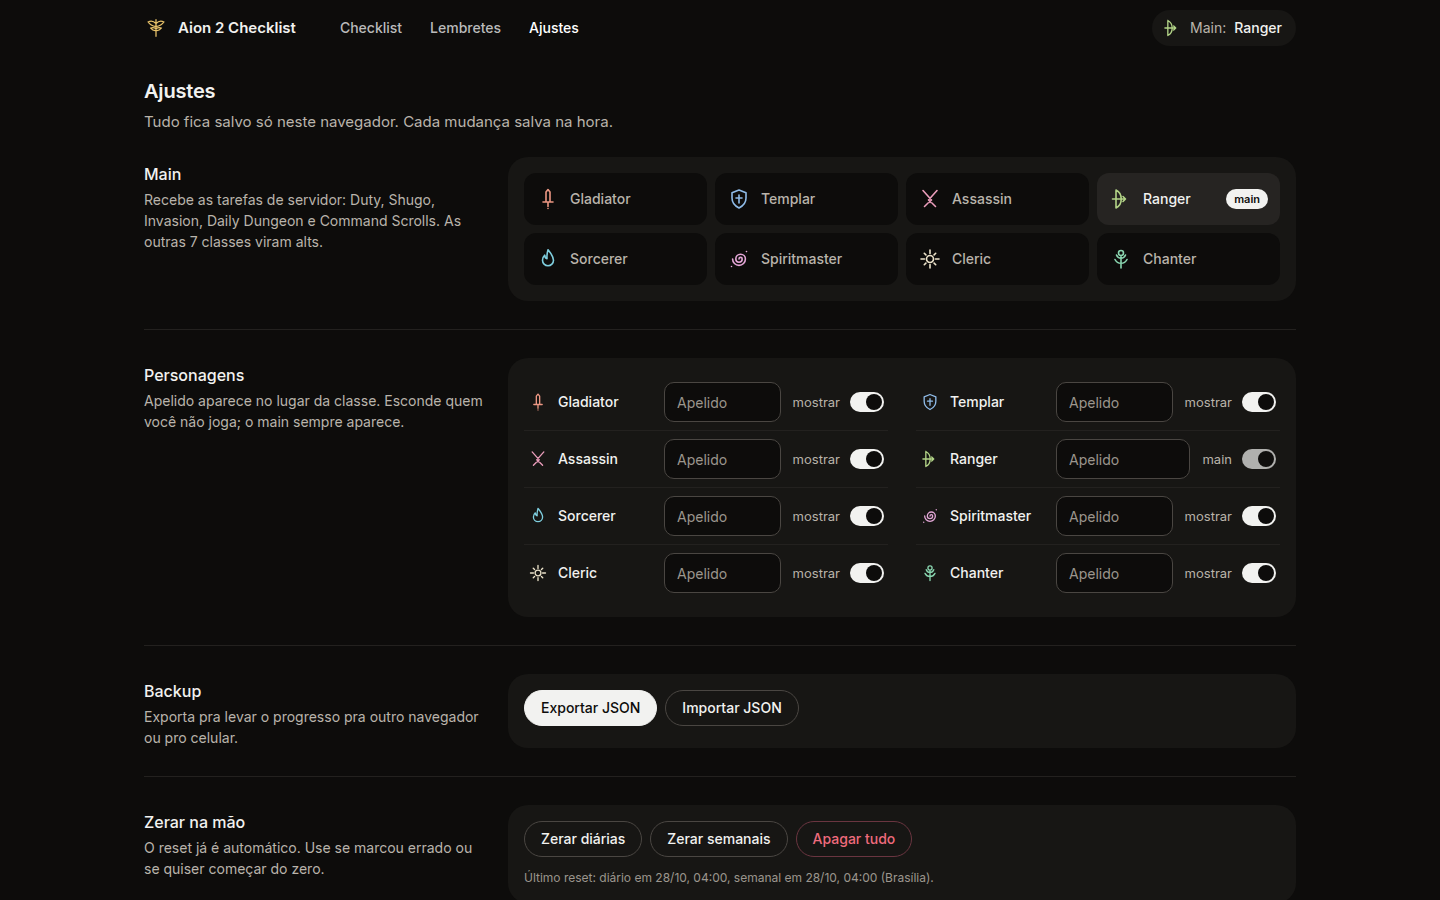
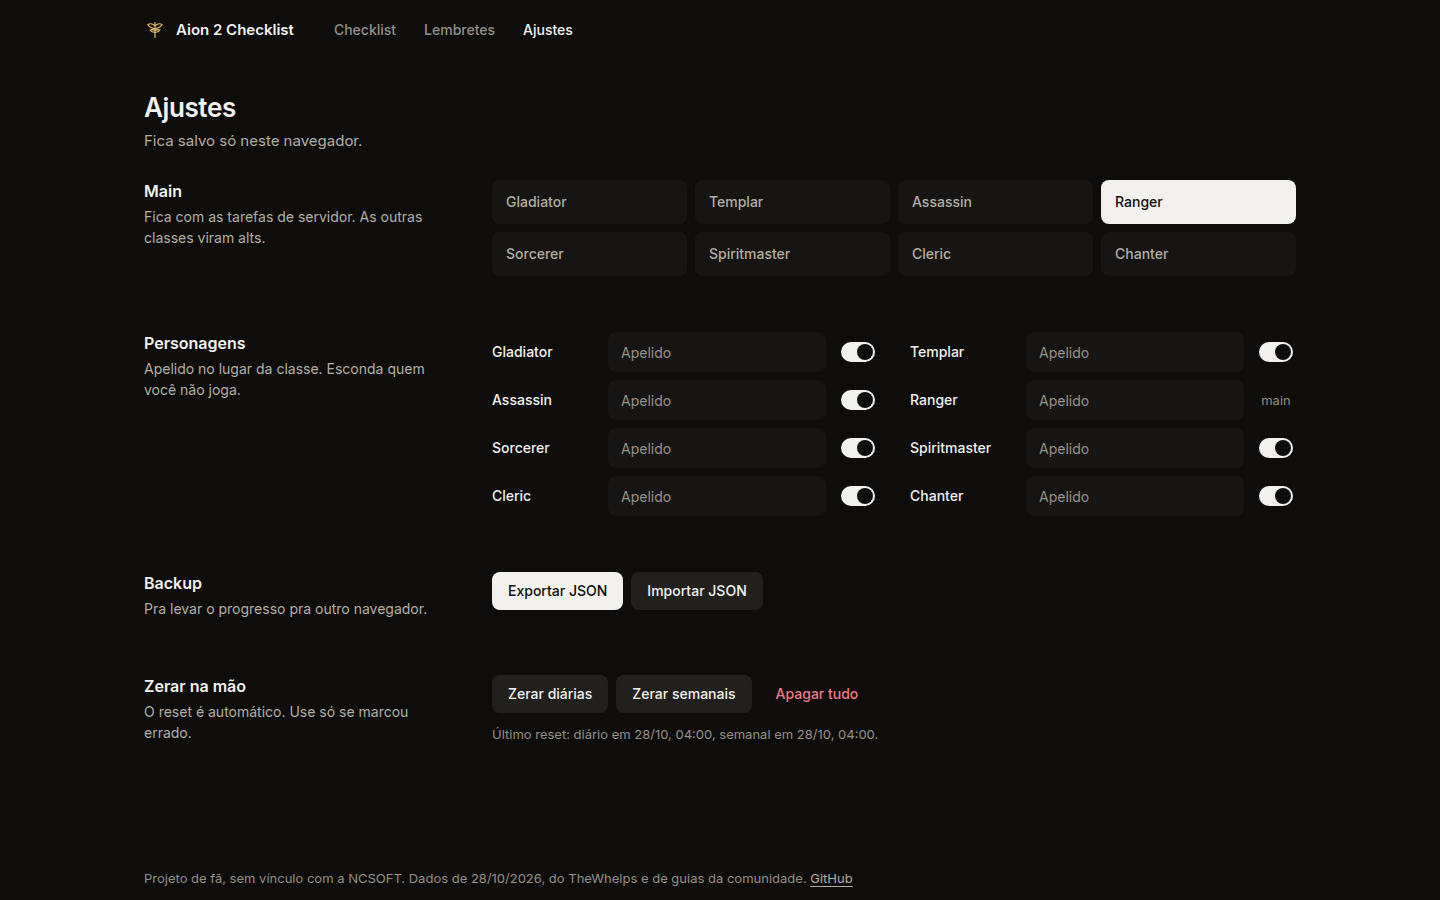
Add CNAME for aion2-checklist.rodrigoos.dev, refresh README and screenshots

diff --git a/README.md b/README.md
@@ -2,7 +2,7 @@
 
 Checklist de diárias e semanais do **Aion 2 global** pra quem joga com main + alts. Você marca o que já fez em cada personagem e a página zera sozinha no reset (04:00 de Brasília).
 
-**Acesse:** https://rodrigoos098.github.io/aion2-checklist/
+**Acesse:** https://aion2-checklist.rodrigoos.dev/
 
 ![Checklist no desktop](screenshots/desktop-1440.png)
 
@@ -12,7 +12,7 @@ Checklist de diárias e semanais do **Aion 2 global** pra quem joga com main + a
 - **8 personagens**, um de cada classe: Gladiator, Templar, Assassin, Ranger, Sorcerer, Spiritmaster, Cleric e Chanter. O main e mais 7 alts.
 - **Checklist por personagem.** O que é por servidor (Duty, chaves de Shugo e Invasion, Daily Dungeon, Command Scrolls) só aparece no main. As alts ficam só com o que é por personagem.
 - **Reset automático com contagem regressiva.** Diário às 04:00 de Brasília (07:00 UTC) e semanal na quarta às 04:00.
-- **Visão geral** de todos os personagens: anel com as diárias e barra com as semanais de cada um, e quanto falta no total.
+- **Visão geral** de todos os personagens: quanto cada um já fez das diárias e quanto falta no total.
 - **Lembretes** do que não tem reset fixo: gastar chave de Shugo, lojas com limite vitalício ou mensal (Shugo, Nightmare, temporada), Hidden Cubes, Kinah das alts pro main e as datas de evento que estão chegando.
 - **Apelidos**, esconder personagem que você não joga, **exportar/importar** o progresso em JSON e **zerar na mão** se precisar.
 - Tudo fica no **localStorage** do navegador. Não tem conta, login nem servidor.
@@ -24,6 +24,10 @@ Checklist de diárias e semanais do **Aion 2 global** pra quem joga com main + a
 </p>
 
 ![Lembretes](screenshots/lembretes-1440.png)
+
+## Domínio
+
+O site é servido pelo GitHub Pages no domínio `aion2-checklist.rodrigoos.dev` (arquivo `CNAME` na raiz). No DNS, o subdomínio precisa de um registro `CNAME` apontando pra `rodrigoos098.github.io`. Todos os caminhos são relativos, então também funciona em `rodrigoos098.github.io/aion2-checklist/`.
 
 ## Rodar local
 
@@ -52,7 +56,7 @@ python3 tools/build_data.py
 - Guias da comunidade: [OnlyFarms](https://onlyfarms.gg/guides/aion-2-daily-weekly-checklist/), [aion2.vi.ki](https://aion2.vi.ki/endgame-routine), [Grimvane](https://aion2.grimvane.app/abyss-boss-timers/), [odyle.net](https://odyle.net/en/cuaderno/tienda-shugo-festival/), [Wikily](https://wikily.gg/aion-2/shops/festival-shop) e [TheGamesWiki](https://thegameswiki.com/aion-2/wiki/global-material-farming-planner).
 - A pesquisa completa está em `pesquisa/checklist.md`.
 
-Os números podem mudar entre fontes e entre o KR e o global. Quando as fontes não batem, o item aparece com a tag **varia** e a explicação fica nos detalhes. Achou algo errado? Abre uma issue.
+Os números podem mudar entre fontes e entre o KR e o global. Quando as fontes não batem, a explicação fica nos detalhes do item (a setinha ao lado dele). Achou algo errado? Abre uma issue.
 
 ---
 
